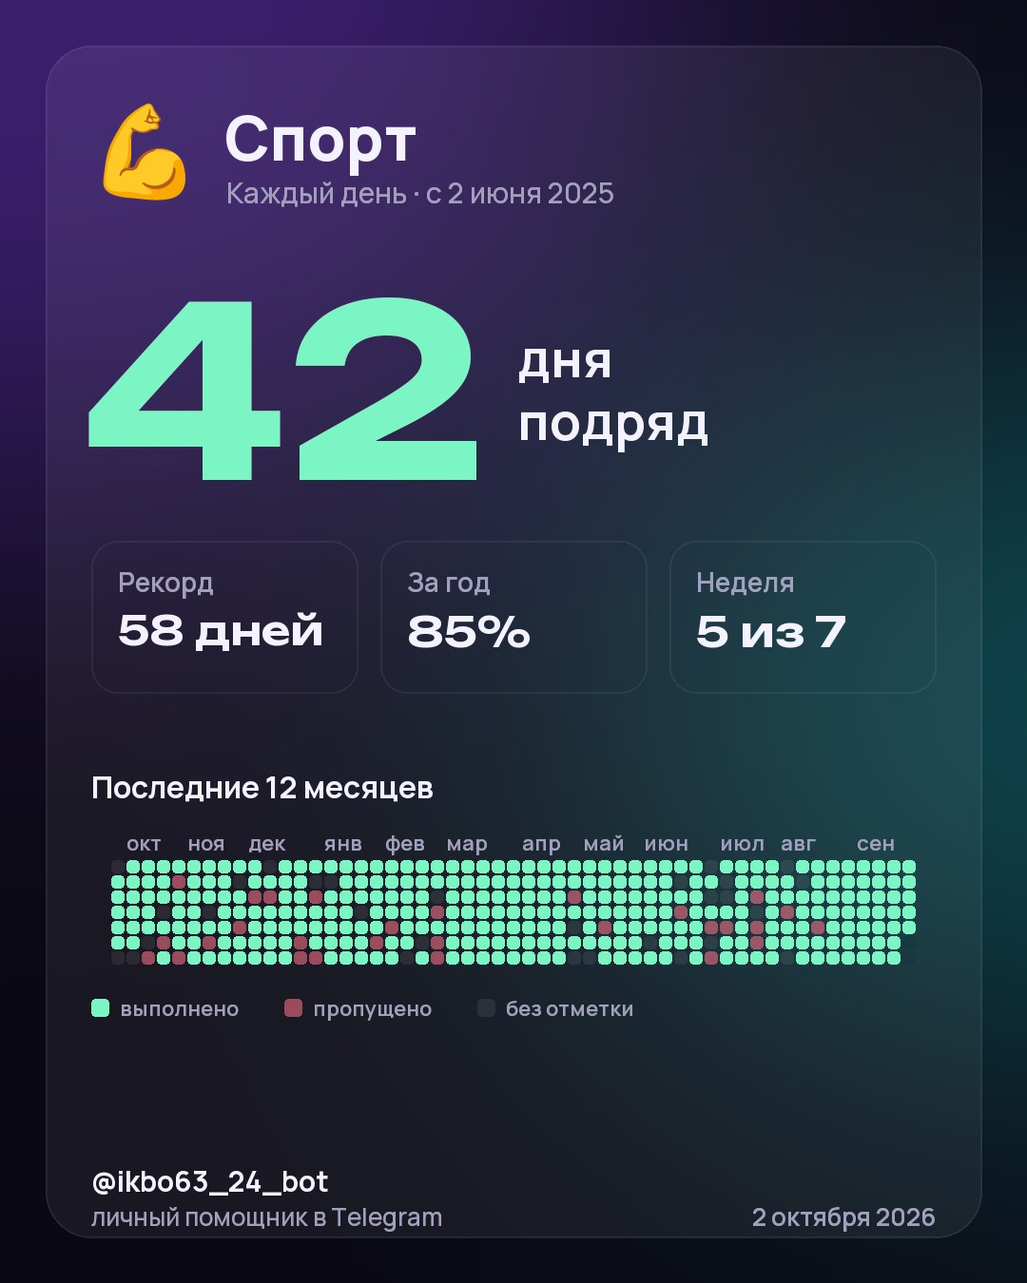
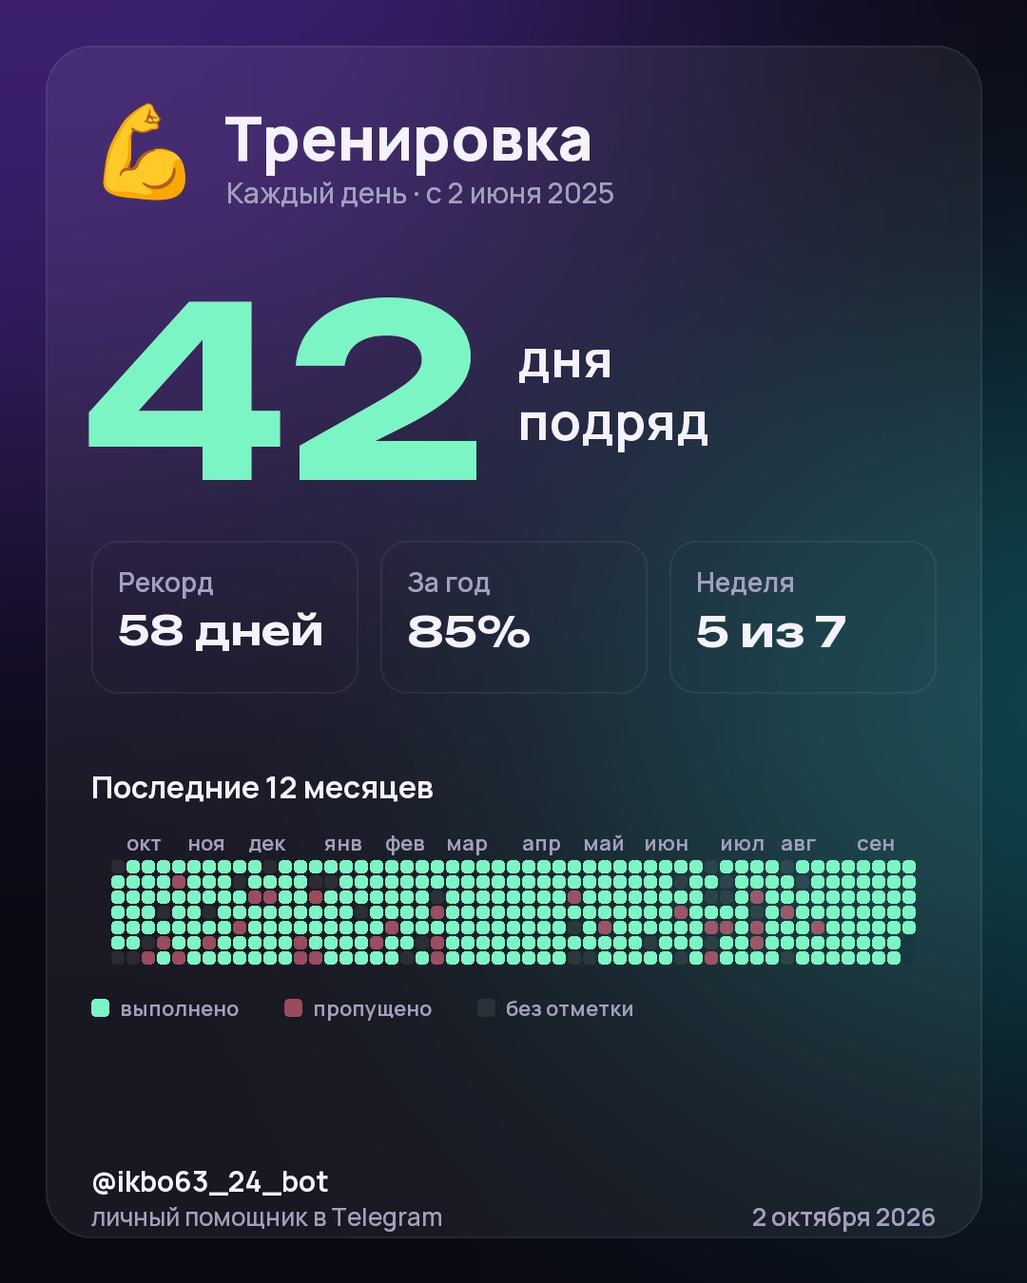
docs: экран привычки без «недели», исключения из подписи API, лицензия эмодзи, копия при откате; картинка README сверяется тестом

Changed region(s): [[0.2139, 0.0933, 0.5806, 0.1556]]

diff --git a/tests/unit/test_sample_card.py b/tests/unit/test_sample_card.py
@@ -1,11 +1,12 @@
 from __future__ import annotations
 
+import hashlib
 from datetime import date
-from io import BytesIO
 from pathlib import Path
 
-from PIL import Image
 from scripts.habit_card import draw, sample_detail
+
+IMAGES = Path(__file__).resolve().parents[2] / "docs" / "images"
 
 
 async def test_the_readme_habit_has_the_numbers_it_was_made_up_for(tmp_path: Path) -> None:
@@ -13,9 +14,11 @@ async def test_the_readme_habit_has_the_numbers_it_was_made_up_for(tmp_path: Pat
     stats = detail.stats
     assert stats.habit.created_on == date(2025, 6, 2)
     assert (stats.streak, stats.record, stats.week_done, stats.week_goal) == (42, 58, 5, 7)
-    assert 80 <= stats.percent <= 90
+    assert stats.percent == 85  # the README's alt text says so
 
 
-async def test_the_readme_card_is_drawn_in_both_languages() -> None:
-    for lang in ("ru", "en"):
-        assert Image.open(BytesIO(await draw(lang))).size == (1080, 1350)
+async def test_the_readme_cards_are_what_the_script_draws() -> None:
+    # A change to the card, its fonts or the habit rules lands here: redraw (docs/DEVELOPMENT.md).
+    for lang, name in (("ru", "habit-card.jpg"), ("en", "habit-card.en.jpg")):
+        drawn = hashlib.sha256(await draw(lang)).hexdigest()
+        assert drawn == hashlib.sha256((IMAGES / name).read_bytes()).hexdigest(), name

diff --git a/scripts/habit_card.py b/scripts/habit_card.py
@@ -22,11 +22,11 @@ from assistant.core.models import Base, HabitMark, User
 from assistant.core.services import cards, habits
 from assistant.core.services.habits import HabitDetail
 
-NOW = datetime(2026, 10, 2, 9, 0, tzinfo=UTC)  # a Friday morning in Moscow
+NOW = datetime(2026, 10, 2, 9, 0, tzinfo=UTC)  # a Friday, noon in Moscow
 BEGAN = datetime(2025, 6, 2, 9, 0, tzinfo=UTC)
 STREAK = 42  # the last 42 days, today included
 RECORD = (date(2026, 3, 2), date(2026, 4, 28))  # 58 days in a row
-NAMES = {"ru": "Спорт", "en": "Workout"}
+NAMES = {"ru": "Тренировка", "en": "Workout"}
 BOT = "ikbo63_24_bot"
 ONE_DAY = timedelta(days=1)
 

diff --git a/README.md b/README.md
@@ -68,7 +68,7 @@
 ```
 
 <p align="center">
-  <img src="docs/images/habit-card.jpg" width="360" alt="Карточка привычки «Спорт»: 42 дня подряд, рекорд 58 дней, 85% за год, неделя 5 из 7 и карта последних 12 месяцев">
+  <img src="docs/images/habit-card.jpg" width="360" alt="Карточка привычки «Тренировка»: 42 дня подряд, рекорд 58 дней, 85% за год, неделя 5 из 7 и карта последних 12 месяцев">
 </p>
 
 ```text
@@ -113,7 +113,7 @@ flowchart LR
 
 - **Фразы без ИИ.** Разбор «завтра в 9», «через 20 минут», «раз в две недели по средам» — набор правил на русском и английском с сотней с лишним табличных тестов; бот ничего не создаёт, пока вы не подтвердите карточку.
 - **Ядро отдельно от Telegram.** Правила — лимиты, серии привычек, разбор времени, советы погоды — живут в `assistant.core` и покрыты тестами. Бот только разбирает ввод и оформляет ответы, API приложения вызывает те же сервисы — поэтому правила в чате и в приложении одни и те же.
-- **Приложению верят только по подписи.** API принимает запрос, только если initData подписана Telegram токеном бота и не старше суток; пользователь берётся из подписи, чужой id — 404. Ошибки — в формате problem+json, не больше 120 запросов в минуту.
+- **Приложению верят только по подписи.** API пускает к данным, только если initData подписана Telegram токеном бота и не старше суток; пользователь берётся из подписи, чужой id — 404. Исключение одно — картинка карточки: её Telegram скачивает сам, по ссылке с токеном (ниже). Ошибки — в формате problem+json, не больше 120 запросов в минуту.
 - **Расписание из любого календаря.** Группа МИРЭА ищется по названию в справочнике, который сервер сам собирает по календарям групп; ссылка или файл `.ics` разбираются тем же кодом. Пары разворачиваются на четыре месяца вперёд и показываются по поясу вашего города; если источник недоступен, остаётся прежнее расписание с пометкой «данные от …».
 - **Карточка рисуется на сервере.** Pillow рисует JPEG 1080×1350 из шрифтов и эмодзи, которые лежат в репозитории, поэтому бот и приложение показывают одну и ту же картинку. Telegram забирает её по ссылке со случайным 256-битным токеном; карточка хранится, пока Telegram может её запросить, но не дольше 7 дней, у пользователя — не больше 10 карточек и не больше 6 новых в минуту.
 - **Ссылки не ведут внутрь сервера.** Календарь по ссылке скачивается только с публичных адресов: сервер сам разрешает имя, проверяет каждый адрес и каждый редирект и подключается к проверенному IP — до 2 МБ и 10 секунд, не больше трёх скачиваний или разборов календаря в минуту на пользователя (в боте и в приложении отдельно). Вдобавок службам systemd закрыты частные сети, адреса link-local и CGNAT `100.64.0.0/10` (loopback остаётся открытым).

diff --git a/docs/USER_GUIDE.md b/docs/USER_GUIDE.md
@@ -19,7 +19,7 @@
 
 - **Сегодня** — дата, погода с советами, пары и дела на сегодня, привычки, курсы. Потяните экран вниз, чтобы обновить.
 - **Календарь** — неделя полосой с номером недели, подпись дня, месяц по тапу на «Календарь»; пары отмечены мятными точками, напоминания — жёлтыми; нажмите на напоминание, чтобы изменить его; «+» создаёт новое — фразой или по полям с выбором повтора. Если вы ещё не писали боту, приложение попросит разрешить ему присылать сообщения.
-- **Привычки** — нажатие на кружок меняет отметку за сегодня по кругу: ⬜ → ✅ → ❌ → ⬜; точки — дни этой недели с понедельника. Нажмите на привычку, чтобы открыть её экран: серия, рекорд, процент за год, неделя, карта последних 12 месяцев и месяц, где отмечается любой из этих дней — с начала привычки и до сегодня (нажатие на неделю в карте открывает её месяц). «Изменить» меняет название, эмодзи, цвет и цель, «Поделиться» отправляет карточку привычки в любой чат Telegram.
+- **Привычки** — нажатие на кружок меняет отметку за сегодня по кругу: ⬜ → ✅ → ❌ → ⬜; точки — дни этой недели с понедельника. Нажмите на привычку, чтобы открыть её экран: серия, рекорд, процент за год, карта последних 12 месяцев и месяц, где отмечается любой из этих дней — с начала привычки и до сегодня (нажатие на неделю в карте открывает её месяц). «Изменить» меняет название, эмодзи, цвет и цель, «Поделиться» отправляет карточку привычки в любой чат Telegram.
 - **Заметки** — нажмите на заметку, чтобы изменить её; сохраняет главная кнопка внизу. Если выйти с несохранённым текстом, приложение спросит.
 - **Ещё** — город, расписание пар, утренняя сводка, язык.
 
@@ -78,7 +78,7 @@
 
 В списке у каждой привычки её эмодзи и прогресс: у ежедневной — сколько дней она выполнена с момента создания, у привычки «N раз в неделю» — сколько раз на этой неделе; ниже — серия и полоса за последние 9 дней: 🟩 выполнено, 🟥 пропущено, ⬜ без отметки.
 
-«✅ Отметить сегодня» показывает все привычки кнопками; нажатие меняет отметку по кругу: ⬜ → ✅ → ❌ → ⬜. Кнопка с названием привычки открывает её карточку:
+«✅ Отметить сегодня» показывает все привычки кнопками; нажатие меняет отметку по кругу: ⬜ → ✅ → ❌ → ⬜. Кнопка с названием привычки под списком открывает её карточку:
 
 ```text
 💪 Спорт

diff --git a/docs/ARCHITECTURE.md b/docs/ARCHITECTURE.md
@@ -63,7 +63,7 @@ webapp/src/                Mini App: React + TypeScript
 ## Запрос из Mini App
 
 1. Приложение отправляет заголовок `Authorization: tma <initData>` — строку, которую Telegram подписал токеном бота при открытии приложения.
-2. API проверяет подпись: HMAC-SHA256 с ключом `HMAC("WebAppData", токен)`, сравнение за постоянное время, `auth_date` не старше 24 часов. Без подписи, с неверной или просроченной — 401, и приложение просит открыть его заново из чата. Подписи не требует только картинка карточки `GET /share/{token}.jpg`: её скачивает сам Telegram, а доступ к ней даёт 256-битный токен в адресе.
+2. API проверяет подпись: HMAC-SHA256 с ключом `HMAC("WebAppData", токен)`, сравнение за постоянное время, `auth_date` не старше 24 часов. Без подписи, с неверной или просроченной — 401, и приложение просит открыть его заново из чата. Из данных пользователя без подписи отдаётся только картинка карточки `GET /share/{token}.jpg`: её скачивает сам Telegram, а доступ к ней даёт 256-битный токен в адресе. Кроме неё без подписи открыты лишь `GET /health` и описание API (`/docs`, `/openapi.json`).
 3. Не больше 120 запросов в минуту на пользователя, сверх — 429 с `Retry-After`.
 4. Пользователь находится или создаётся так же, как в боте, и изменения фиксируются до обращений к погоде и курсам, чтобы не держать блокировку записи во время сетевых запросов.
 5. Любой запрос к данным фильтруется по пользователю из подписи: чужой или уже удалённый id — 404, приложение пишет «Этого уже нет» и обновляет список.

diff --git a/README.en.md b/README.en.md
@@ -113,7 +113,7 @@ flowchart LR
 
 - **Phrases without AI.** “tomorrow at 9”, “in 20 minutes”, “every other wednesday” are parsed by Russian and English rules with over a hundred table tests; nothing is created until you confirm the card.
 - **The core knows nothing about Telegram.** Limits, habit streaks, time parsing and weather tips live in `assistant.core` and are covered by tests. The bot only parses input and formats replies, and the app's API calls the same services — so the chat and the app follow the same rules.
-- **The app is trusted only by signature.** The API accepts a request only when its initData is signed by Telegram with the bot token and is less than a day old; the user comes from the signature, and someone else's id gets 404. Errors are problem+json, at most 120 requests a minute.
+- **The app is trusted only by signature.** The API lets a request reach any data only when its initData is signed by Telegram with the bot token and is less than a day old; the user comes from the signature, and someone else's id gets 404. The one exception is the card picture, which Telegram fetches itself by a token link (below). Errors are problem+json, at most 120 requests a minute.
 - **A timetable from any calendar.** A MIREA group is found by name in a directory the server builds itself from the groups' calendars; a link or an `.ics` file goes through the same parser. Classes are expanded four months ahead and shown in your city's time zone; when the source is down, the last timetable stays, marked “data from …”.
 - **The card is drawn on the server.** Pillow draws a 1080×1350 JPEG from fonts and emoji kept in the repository, so the bot and the app show the same picture. Telegram fetches it by a link with a random 256-bit token; a card is kept while Telegram may ask for it, but no longer than 7 days, at most 10 cards per user and at most 6 new ones a minute.
 - **Links never lead inside the server.** A calendar link is downloaded from public addresses only: the server resolves the name itself, checks every address and every redirect and connects to the checked IP — up to 2 MB and 10 seconds, at most three calendar downloads or parses a minute per user (in the bot and in the app separately). On top of that, the systemd services cannot reach private, link-local or CGNAT (`100.64.0.0/10`) networks (loopback stays open).

diff --git a/CHANGELOG.md b/CHANGELOG.md
@@ -14,7 +14,7 @@
 - Рекорд — самая длинная серия, и процент выполненного за последний год.
 - Эмодзи (32 на выбор) и цвет (8) у каждой привычки — в боте, в приложении и на карточке.
 - Карточка привычки — картинка 1080×1350 с серией, рекордом, процентом за год, неделей и картой последних 12 месяцев. В приложении «Поделиться» отправляет её в любой чат Telegram (клиент, который так не умеет, получает её от бота — переслать можно оттуда), в боте её присылает «📊 Карта года».
-- Свой экран у каждой привычки в приложении: серия, рекорд, процент, неделя, карта года (нажатие на неделю открывает её месяц) и отметки за любой день последних 12 месяцев; «Изменить» — название, эмодзи, цвет и цель.
+- Свой экран у каждой привычки в приложении: серия, рекорд, процент, карта года (нажатие на неделю открывает её месяц) и отметки за любой день последних 12 месяцев; «Изменить» — название, эмодзи, цвет и цель.
 - Своя карточка у привычки в боте: «📅 Прошлые дни» (отметки за последние 7 дней), «🎯 Цель», «🎨 Эмодзи и цвет», «✏ Название», «🗑 Удалить». Новую привычку бот после названия спрашивает о цели.
 
 ### Изменено

diff --git a/deploy/server-setup.md b/deploy/server-setup.md
@@ -474,7 +474,10 @@ ssh <server> 'sudo DEPLOY_ALLOW_OLDER=1 /usr/local/sbin/assistant-deploy <v2.3.0
 The downgrade drops the cards kept for sharing and the habits' emoji, colour
 and weekly goal: every habit counts as a daily one again, while the habits
 and their marks stay. The backup runs first for the same reason as in
-2.3 → 2.2: the deploy's own snapshot is taken after the downgrade.
+2.3 → 2.2: the deploy's own snapshot is taken after the downgrade. That copy is
+the only one left with the goals, emoji and colours, and as there it is
+`assistant-<UTC date>.db`, overwritten by the nightly run at 03:30 UTC: copy it
+under another name before then.
 
 ## 8. Restore from a backup
 

diff --git a/src/assistant/assets/SOURCES.md b/src/assistant/assets/SOURCES.md
@@ -9,4 +9,8 @@ unchanged from their upstream repositories at the commits below; `SHA256SUMS` li
 | `fonts/Unbounded.ttf` | `google/fonts` @ `9710da1e`, `ofl/unbounded/Unbounded[wght].ttf` | SIL Open Font License 1.1, `fonts/Unbounded-OFL.txt` |
 | `emoji/emoji_u*.png` (32) | `googlefonts/noto-emoji` @ `e20cbc2b`, `2D/png/128/` | SIL Open Font License 1.1 (the repository's `LICENSE`), `emoji/LICENSE.txt` |
 
+The emoji images follow the repository's `LICENSE`, which upstream changed from Apache 2.0 to the
+OFL in `254596e5` (2024-07-29); the License section of its README still names Apache 2.0 for most
+images.
+
 Check them with `sha256sum -c SHA256SUMS` from this folder.
